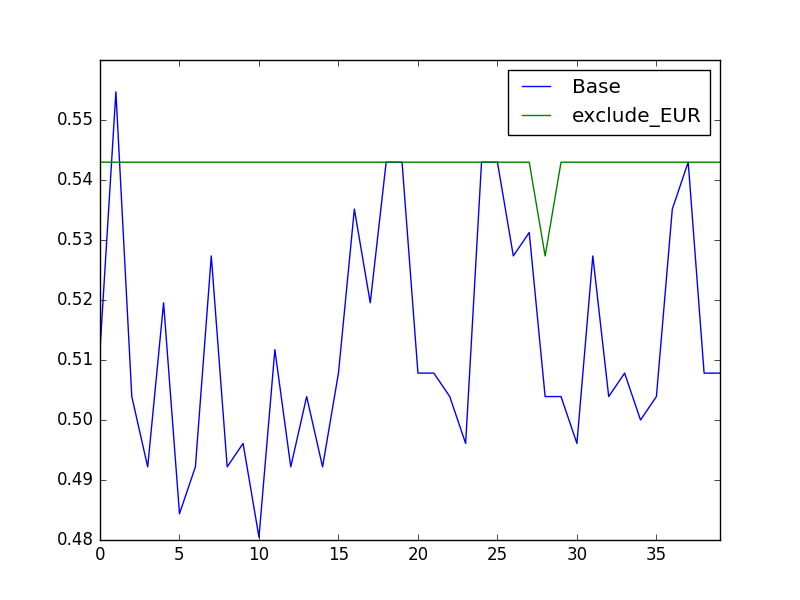
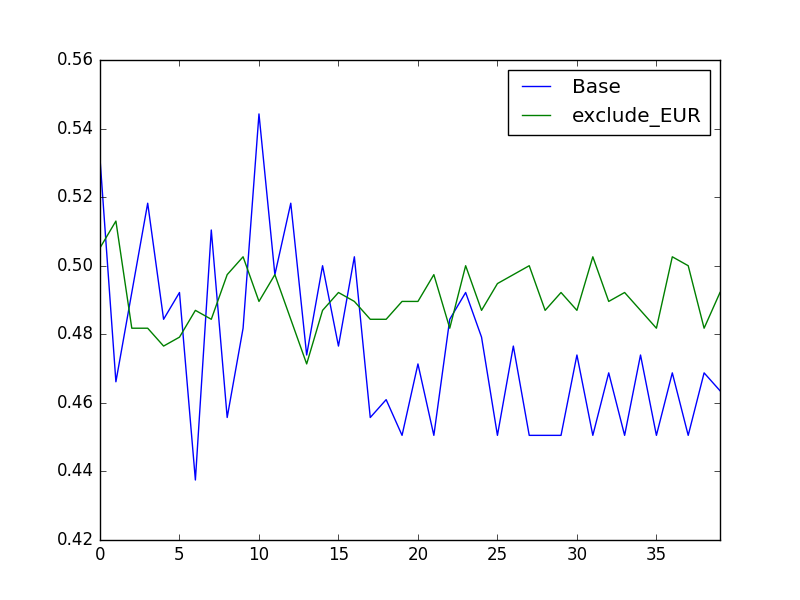
+  rolling window 5 years

diff --git a/model.py b/model.py
@@ -18,12 +18,14 @@ def getModel(C):
 
     decoder = Sequential()
     decoder.add(Merge(encoders, mode='concat'))
-    decoder.add(Dropout(0.5))
-    decoder.add(LSTM(48, stateful=True, return_sequences=True))
-    decoder.add(LSTM(96, stateful=True))
+    decoder.add(LSTM(64, stateful=True, return_sequences=True))
+    #decoder.add(Dropout(0.5))
+    decoder.add(LSTM(128, stateful=True))
     #decoder.add(TimeDistributed(Dense(64)))
-
-    decoder.add(Dense(96, activation='tanh'))
+    decoder.add(Dropout(0.5))
+    decoder.add(Dense(128, activation='tanh'))
+    #decoder.add(Dense(96, activation='tanh'))
+    decoder.add(Dropout(0.5))
     decoder.add(Dense(nb_classes, activation='softmax'))
 
 

diff --git a/conf.py b/conf.py
@@ -3,10 +3,10 @@ class Conf:
     STRFRQ = {30: 'M', 7: 'W', 1: 'D'}
     DATAFREQ = 7#days
     TRAIN_FROM = 0 * 365
-    TRAIN_TO = 25.1 * 365
-    VAL_FROM = 16.1 * 365
+    TRAIN_TO = 22.66 * 365
+    VAL_FROM = 17.66 * 365
     VAL_TO = 30 * 365
-    ROLLWINDOW = 9 * 365
+    ROLLWINDOW = 5 * 365
 
     XOUT_DIM = 32
     BATCH_SIZE = 64
